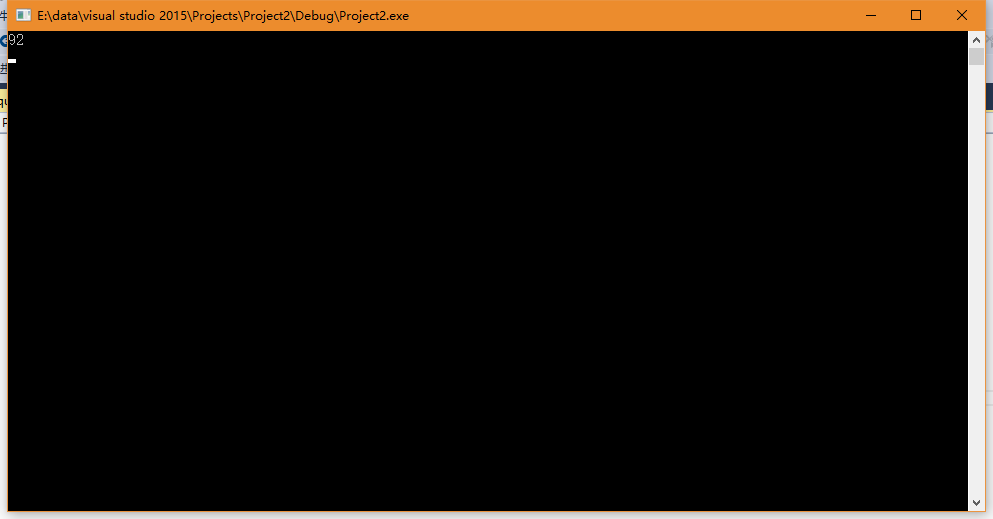
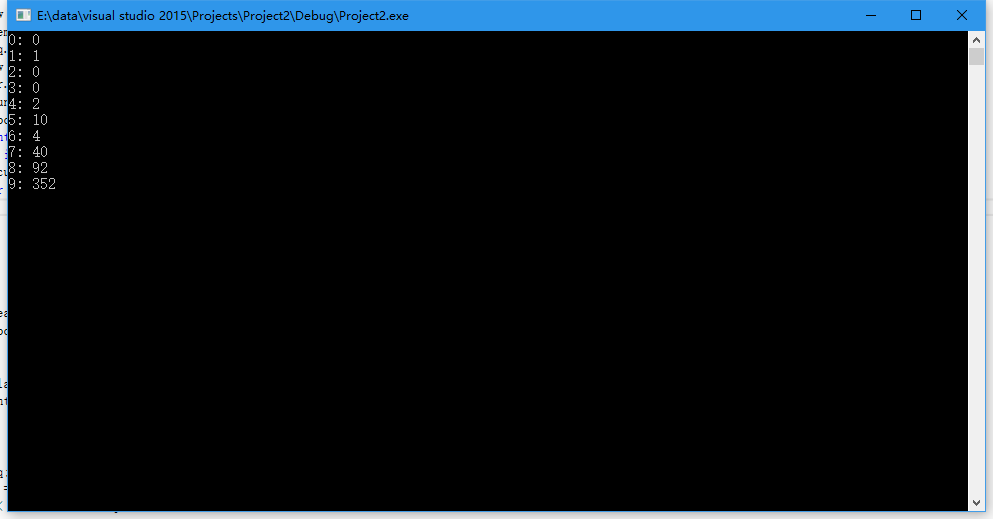
Site updated: 2017-09-11 22:32:48

Changed region(s): [[0.0, 0.0, 1.0, 0.3699], [0.999, 0.2466, 1.0, 0.2775]]

diff --git a/2017/09/08/n-Queens/index.html b/2017/09/08/n-Queens/index.html
@@ -14,7 +14,7 @@
 <meta property="og:description" content="问题来源 问题简介 在一个n * n的格子里放置n个皇后，要求每任意两个皇后都不能处于同一行、同一列或者对角线上（45度或者135度）。返回总共有多少种排法。">
 <meta property="og:locale" content="zh">
 <meta property="og:image" content="https://guoyl6.github.io/img/n-Queens.png">
-<meta property="og:updated_time" content="2017-09-10T13:39:02.383Z">
+<meta property="og:updated_time" content="2017-09-11T13:53:40.662Z">
 <meta name="twitter:card" content="summary">
 <meta name="twitter:title" content="n-Queens">
 <meta name="twitter:description" content="问题来源 问题简介 在一个n * n的格子里放置n个皇后，要求每任意两个皇后都不能处于同一行、同一列或者对角线上（45度或者135度）。返回总共有多少种排法。">
@@ -184,7 +184,7 @@
 </thead>
 <tbody>
 <tr>
-<td style="text-align:center">O(n!)</td>
+<td style="text-align:center">…</td>
 <td style="text-align:center">…</td>
 </tr>
 </tbody>
@@ -192,8 +192,58 @@
 <hr>
 <h2 id="Code"><a href="#Code" class="headerlink" title="Code"></a>Code</h2><pre><code>#include &lt;iostream&gt;
 #include &lt;stack&gt;
+#include &lt;vector&gt;
 #include &lt;functional&gt;
 using namespace std;
+class Solution {
+private:
+    bool *flag;
+    int count;
+    void solve(int row, int col, int n) {
+        if (row == n - 1) {
+            count++;
+            return;
+        }
+        flag[col] = flag[n + row + col] = flag[4 * n - 2 + col - row] = false;
+        row++;
+        for (int i = 0; i &lt; n; i++) {
+            if (flag[i] &amp;&amp; flag[n + row + i] &amp;&amp; flag[4 * n - 2 + i - row]) {
+                solve(row, i, n);
+            }
+        }
+        row--;
+        flag[col] = flag[n + row + col] = flag[4 * n - 2 + col - row] = true;
+    }
+public:
+    Solution() { flag = nullptr; }
+    ~Solution() { delete[] flag; }
+    void init(int n) {
+        count = 0;
+        if (flag) {
+            delete[] flag;
+        }
+        flag = new bool[5 * n - 2];
+        for (int i = 5 * n - 2 - 1; i--;) {
+            /*
+            flag[0] to flag[n - 1] to indicate if the column had a queen before.
+            flag[n] to flag[3 * n - 2] to indicate if the 45° diagonal had a queen before.
+            flag[3 * n - 1] to flag[5 * n - 3] to indicate if the 135° diagonal had a queen before.
+            */
+            flag[i] = true;
+        }
+    }
+    int totalNQueens(int n) {
+        if (n &lt; 2) {
+            return n;
+        }
+        init(n);
+        for (int i = 0; i &lt; n; i++) {
+            solve(0, i, n);
+        }
+        return count;
+    }
+};
+
 
 int solveNQueens(int n) {
     // 14ms
@@ -243,7 +293,10 @@ int solveNQueens(int n) {
 }
 
 int main() {
-    cout &lt;&lt; solveNQueens(8) &lt;&lt; endl;
+    Solution nq;
+    for (int i = 0; i &lt; 10; i++) {
+        cout &lt;&lt; i &lt;&lt; &quot;: &quot; &lt;&lt; nq.totalNQueens(i) &lt;&lt; endl;
+    }
     return 0;
 }
 </code></pre><hr>
@@ -255,7 +308,7 @@ int main() {
       
     </div>
     <footer class="article-footer">
-      <a data-url="https://guoyl6.github.io/2017/09/08/n-Queens/" data-id="cj7f2bjdu0009e0u6ndohws6i" class="article-share-link">Share</a>
+      <a data-url="https://guoyl6.github.io/2017/09/08/n-Queens/" data-id="cj7g9pmxv000omcu6pxvg4d1f" class="article-share-link">Share</a>
       
       
   <ul class="article-tag-list"><li class="article-tag-list-item"><a class="article-tag-list-link" href="/tags/c/">c++</a></li><li class="article-tag-list-item"><a class="article-tag-list-link" href="/tags/回溯/">回溯</a></li></ul>

diff --git a/2017/09/10/Median-of-Two-Sorted-Arrays/index.html b/2017/09/10/Median-of-Two-Sorted-Arrays/index.html
@@ -14,7 +14,7 @@
 <meta property="og:description" content="问题来源 问题简介 给定两个有序数组a[m], b[n]，找出中位数要求时间复杂度为O(log(m+n))">
 <meta property="og:locale" content="zh">
 <meta property="og:image" content="https://guoyl6.github.io/img/median-of-Two-Sorted-Array.png">
-<meta property="og:updated_time" content="2017-09-10T13:07:32.459Z">
+<meta property="og:updated_time" content="2017-09-11T13:55:18.398Z">
 <meta name="twitter:card" content="summary">
 <meta name="twitter:title" content="Find-Median">
 <meta name="twitter:description" content="问题来源 问题简介 给定两个有序数组a[m], b[n]，找出中位数要求时间复杂度为O(log(m+n))">
@@ -209,13 +209,21 @@ double middle_of_two_sorted_arrays(int *a, int l_a, int *b, int l_b) {
         swap(a, b);
         swap(l_a, l_b);
     }
-    if (l_b &lt;= 0) {
-        throw &quot;invalid length&quot;;
-    }
 
     int b_l = 0, b_r = l_a, half_len = (l_a + l_b) / 2;
     int i, j;
     double zws_l = 0, zws_r = 0;
+
+    if (l_a == 0 &amp;&amp; l_b == 0) {
+        throw &quot;invalid length&quot;;
+    } else if (l_a == 0) {
+        zws_l = b[l_b/2-1];
+        zws_r = b[l_b/2];
+        if (l_b &amp; 1) {
+            return zws_r;
+        }
+        return (zws_l + zws_r) / 2;
+    }
 
     /*
         从a中尝试挑选分割点，i的取值 [0, m]
@@ -241,25 +249,23 @@ double middle_of_two_sorted_arrays(int *a, int l_a, int *b, int l_b) {
             b 的两个部分 [0, j - 1], [j, length_of_b -1]
         */
 
-        if (i &gt; 0 &amp;&amp; i &lt; l_a) {
-            if (a[i] &lt; b[j - 1]) {
-                // 分割点过小使得a中本应在左半部分中的数被分到了右半部分
-                b_l = i + 1;
-                continue;
-            }
-            else if (a[i - 1] &gt; b[j]) {
-                // 分割点过大使得a中本应在右半部分中的数被分到了左半部分
-                b_r = i - 1;
-                continue;
-            }
+        if (i &lt; l_a &amp;&amp; a[i] &lt; b[j - 1]) {
+            // 分割点过小使得a中本应在左半部分中的数被分到了右半部分
+            b_l = i + 1;
+            continue;
+        }
+        if (i &gt; 0 &amp;&amp; a[i - 1] &gt; b[j]) {
+            // 分割点过大使得a中本应在右半部分中的数被分到了左半部分
+            b_r = i - 1;
+            continue;
         }
 
         if (i == 0) {
             zws_l = b[j - 1];
-            zws_r = j &lt; l_b ? b[j] : a[0];
+            zws_r = j &lt; l_b ? min(b[j], a[0]) : a[0];
         }
         else if (i == l_a) {
-            zws_l = j == 0 ? a[l_a-1] : b[j-1];
+            zws_l = j == 0 ? a[l_a-1] : max(a[l_a-1], b[j-1]);
             zws_r = b[j];
         }
         else {
@@ -298,7 +304,7 @@ int main() {
       
     </div>
     <footer class="article-footer">
-      <a data-url="https://guoyl6.github.io/2017/09/10/Median-of-Two-Sorted-Arrays/" data-id="cj7f2bjdc0002e0u68z4eg8jt" class="article-share-link">Share</a>
+      <a data-url="https://guoyl6.github.io/2017/09/10/Median-of-Two-Sorted-Arrays/" data-id="cj7g9pmwy0000mcu60c42tm5i" class="article-share-link">Share</a>
       
       
   <ul class="article-tag-list"><li class="article-tag-list-item"><a class="article-tag-list-link" href="/tags/c/">c++</a></li><li class="article-tag-list-item"><a class="article-tag-list-link" href="/tags/二分查找/">二分查找</a></li></ul>

diff --git a/index.html b/index.html
@@ -179,7 +179,7 @@
       
     </div>
     <footer class="article-footer">
-      <a data-url="https://guoyl6.github.io/2017/09/10/Sudoku-Solver/" data-id="cj7f2bjdq0008e0u6k7adsc75" class="article-share-link">Share</a>
+      <a data-url="https://guoyl6.github.io/2017/09/10/Sudoku-Solver/" data-id="cj7g9pmxa0004mcu6g0y7kn79" class="article-share-link">Share</a>
       
       
   <ul class="article-tag-list"><li class="article-tag-list-item"><a class="article-tag-list-link" href="/tags/c/">c++</a></li><li class="article-tag-list-item"><a class="article-tag-list-link" href="/tags/回溯/">回溯</a></li></ul>
@@ -233,7 +233,7 @@
       
     </div>
     <footer class="article-footer">
-      <a data-url="https://guoyl6.github.io/2017/09/10/Median-of-Two-Sorted-Arrays/" data-id="cj7f2bjdc0002e0u68z4eg8jt" class="article-share-link">Share</a>
+      <a data-url="https://guoyl6.github.io/2017/09/10/Median-of-Two-Sorted-Arrays/" data-id="cj7g9pmwy0000mcu60c42tm5i" class="article-share-link">Share</a>
       
       
   <ul class="article-tag-list"><li class="article-tag-list-item"><a class="article-tag-list-link" href="/tags/c/">c++</a></li><li class="article-tag-list-item"><a class="article-tag-list-link" href="/tags/二分查找/">二分查找</a></li></ul>
@@ -287,7 +287,7 @@
       
     </div>
     <footer class="article-footer">
-      <a data-url="https://guoyl6.github.io/2017/09/08/n-Queens/" data-id="cj7f2bjdu0009e0u6ndohws6i" class="article-share-link">Share</a>
+      <a data-url="https://guoyl6.github.io/2017/09/08/n-Queens/" data-id="cj7g9pmxv000omcu6pxvg4d1f" class="article-share-link">Share</a>
       
       
   <ul class="article-tag-list"><li class="article-tag-list-item"><a class="article-tag-list-link" href="/tags/c/">c++</a></li><li class="article-tag-list-item"><a class="article-tag-list-link" href="/tags/回溯/">回溯</a></li></ul>
@@ -341,7 +341,7 @@
       
     </div>
     <footer class="article-footer">
-      <a data-url="https://guoyl6.github.io/2017/09/07/Pow-x-n/" data-id="cj7f2bjd50000e0u6f39brb1n" class="article-share-link">Share</a>
+      <a data-url="https://guoyl6.github.io/2017/09/07/Pow-x-n/" data-id="cj7g9pmx30001mcu6zrlxcyqu" class="article-share-link">Share</a>
       
       
   <ul class="article-tag-list"><li class="article-tag-list-item"><a class="article-tag-list-link" href="/tags/c/">c++</a></li><li class="article-tag-list-item"><a class="article-tag-list-link" href="/tags/分治/">分治</a></li></ul>
@@ -387,7 +387,7 @@
       
     </div>
     <footer class="article-footer">
-      <a data-url="https://guoyl6.github.io/2017/09/07/hello/" data-id="cj7f2bjdm0006e0u6t3nhwvqp" class="article-share-link">Share</a>
+      <a data-url="https://guoyl6.github.io/2017/09/07/hello/" data-id="cj7g9pmxb0005mcu66wy8ukg1" class="article-share-link">Share</a>
       
       
     </footer>

diff --git a/2017/09/10/Sudoku-Solver/index.html b/2017/09/10/Sudoku-Solver/index.html
@@ -14,7 +14,7 @@
 <meta property="og:description" content="问题来源 问题简介 给定一个未填满的数独，要求你把它填满。">
 <meta property="og:locale" content="zh">
 <meta property="og:image" content="https://guoyl6.github.io/img/sudoku.png">
-<meta property="og:updated_time" content="2017-09-10T18:16:12.886Z">
+<meta property="og:updated_time" content="2017-09-11T11:02:25.997Z">
 <meta name="twitter:card" content="summary">
 <meta name="twitter:title" content="Sudoku Solver">
 <meta name="twitter:description" content="问题来源 问题简介 给定一个未填满的数独，要求你把它填满。">
@@ -194,7 +194,6 @@
 <h2 id="Code"><a href="#Code" class="headerlink" title="Code"></a>Code</h2><pre><code>#include &lt;iostream&gt;
 #include &lt;algorithm&gt;
 #include &lt;stack&gt;
-#include &lt;string&gt;
 using namespace std;
 
 struct Node {
@@ -229,21 +228,28 @@ public:
 
     bool solve() {
         stack&lt;Node&gt; q;
+        bool inited = false;
 
-        q.push(Node(0, 0, 0));
+        q.push(Node(0, -1, 0));
         while (!q.empty()) {
             Node &amp;cur = q.top();
             // cout &lt;&lt; cur.row &lt;&lt; &quot; &quot; &lt;&lt; cur.col &lt;&lt; &quot; &quot; &lt;&lt; cur.num &lt;&lt; endl;
             t_node = cur;
 
 
-            if (!cur.seted) {
-                set(cur);
+            if (inited) {
+                if (!cur.seted) {
+                    set(cur);
+                }
+                else {
+                    unset(cur);
+                    q.pop();
+                    continue;
+                }
             }
             else {
-                unset(cur);
                 q.pop();
-                continue;
+                inited = true;
             }
 
             if (!next_space(t_node)) {
@@ -321,9 +327,7 @@ private:
         block_occupied[cur.block][cur.num] = true;
         cur.seted = true;
 
-        if (cur.num) {
-            data_int[cur.row][cur.col] = cur.num;
-        }
+        data_int[cur.row][cur.col] = cur.num;
     }
 
     inline void unset(const Node &amp;cur) {
@@ -387,7 +391,7 @@ int main() {
       
     </div>
     <footer class="article-footer">
-      <a data-url="https://guoyl6.github.io/2017/09/10/Sudoku-Solver/" data-id="cj7f2bjdq0008e0u6k7adsc75" class="article-share-link">Share</a>
+      <a data-url="https://guoyl6.github.io/2017/09/10/Sudoku-Solver/" data-id="cj7g9pmxa0004mcu6g0y7kn79" class="article-share-link">Share</a>
       
       
   <ul class="article-tag-list"><li class="article-tag-list-item"><a class="article-tag-list-link" href="/tags/c/">c++</a></li><li class="article-tag-list-item"><a class="article-tag-list-link" href="/tags/回溯/">回溯</a></li></ul>

diff --git a/2017/09/07/Pow-x-n/index.html b/2017/09/07/Pow-x-n/index.html
@@ -14,7 +14,7 @@
 <meta property="og:description" content="问题来源 问题简介 实现求幂函数">
 <meta property="og:locale" content="zh">
 <meta property="og:image" content="https://guoyl6.github.io/img/pow-x-n.png">
-<meta property="og:updated_time" content="2017-09-10T13:07:20.176Z">
+<meta property="og:updated_time" content="2017-09-11T14:30:16.970Z">
 <meta name="twitter:card" content="summary">
 <meta name="twitter:title" content="Pow(x,n)">
 <meta name="twitter:description" content="问题来源 问题简介 实现求幂函数">
@@ -196,11 +196,11 @@ using namespace std;
 class Solution {
 public:
     double myPow(double x, int n) {
-        if (x == 0) {
-            return 0;
-        }
         if (n == 0) {
             return 1;
+        }
+        if (x == 0 || x == 1) {
+            return x;
         }
         if (n &lt; 0) {
             x = 1 / x;
@@ -235,7 +235,7 @@ int main() {
       
     </div>
     <footer class="article-footer">
-      <a data-url="https://guoyl6.github.io/2017/09/07/Pow-x-n/" data-id="cj7f2bjd50000e0u6f39brb1n" class="article-share-link">Share</a>
+      <a data-url="https://guoyl6.github.io/2017/09/07/Pow-x-n/" data-id="cj7g9pmx30001mcu6zrlxcyqu" class="article-share-link">Share</a>
       
       
   <ul class="article-tag-list"><li class="article-tag-list-item"><a class="article-tag-list-link" href="/tags/c/">c++</a></li><li class="article-tag-list-item"><a class="article-tag-list-link" href="/tags/分治/">分治</a></li></ul>

diff --git a/2017/09/07/hello/index.html b/2017/09/07/hello/index.html
@@ -169,7 +169,7 @@
       
     </div>
     <footer class="article-footer">
-      <a data-url="https://guoyl6.github.io/2017/09/07/hello/" data-id="cj7f2bjdm0006e0u6t3nhwvqp" class="article-share-link">Share</a>
+      <a data-url="https://guoyl6.github.io/2017/09/07/hello/" data-id="cj7g9pmxb0005mcu66wy8ukg1" class="article-share-link">Share</a>
       
       
     </footer>
